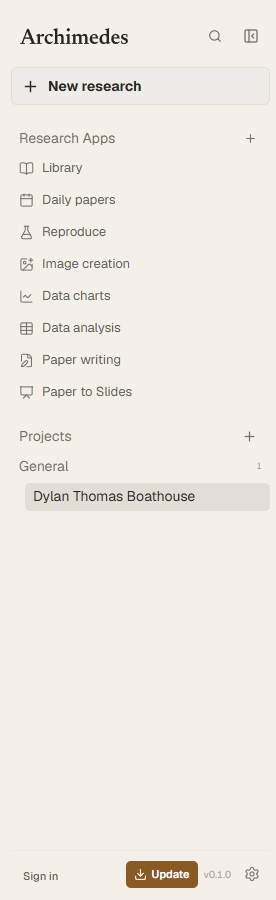
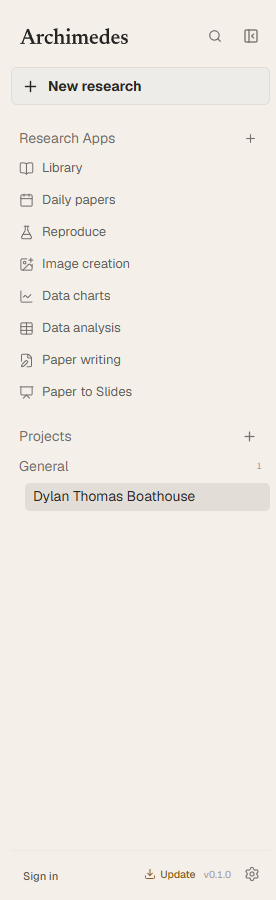
fix(sidebar): make the update action minimal and non-overlapping

Changed region(s): [[0.4348, 0.9333, 0.7246, 0.9956]]

diff --git a/src/styles.css b/src/styles.css
@@ -7167,10 +7167,10 @@ html[data-card-style="outlined"] :is(.settings-group, .library-card, .daily-pape
 .sidebar-footer-settings { display: grid; width: 30px; height: 30px; flex: 0 0 30px; margin-left: auto; place-items: center; padding: 0; color: var(--sb-muted); background: transparent; border: 0; border-radius: 6px; }
 .sidebar-footer-settings:hover { color: var(--night-ink); background: var(--sb-hover); }
 .sidebar-footer-settings:focus-visible { outline: 2px solid var(--focus-ring); outline-offset: 1px; }
-.sidebar-footer-version { flex: 0 0 auto; color: var(--sb-faint); font-size: 10px; font-variant-numeric: tabular-nums; white-space: nowrap; }
-.sidebar-footer-update { display: inline-flex; min-height: 27px; flex: 0 0 auto; align-items: center; gap: 5px; padding: 0 8px; color: var(--accent-ink); background: var(--accent); border: 0; border-radius: 5px; font-size: 11px; font-weight: 600; white-space: nowrap; }
-.sidebar-footer-update:hover { filter: brightness(.96); }
-.sidebar-footer-update svg { width: 13px; height: 13px; }
+.sidebar-footer-version { min-width: 0; flex: 0 1 auto; overflow: hidden; color: var(--sb-faint); font-size: 10px; font-variant-numeric: tabular-nums; text-overflow: ellipsis; white-space: nowrap; }
+.sidebar-footer-update { display: inline-flex; height: 24px; flex: 0 0 auto; align-items: center; gap: 4px; padding: 0 2px; color: var(--accent); background: transparent; border: 0; border-radius: 3px; font-size: 10.5px; font-weight: 500; white-space: nowrap; }
+.sidebar-footer-update:hover { color: var(--accent-strong); background: transparent; text-decoration: underline; text-underline-offset: 2px; }
+.sidebar-footer-update svg { width: 12px; height: 12px; }
 .sidebar-runtime .account-chip-wrap.compact { min-width: 0; flex: 0 0 auto; margin-right: auto; }
 .account-chip.compact { display: flex; width: auto; min-width: 30px; height: 30px; min-height: 30px; align-items: center; justify-content: center; padding: 0 8px; border-color: transparent; }
 .account-chip.compact.guest .account-chip-copy { display: block; }
@@ -7187,7 +7187,7 @@ html[data-card-style="outlined"] :is(.settings-group, .library-card, .daily-pape
   .sidebar-runtime { flex-direction: column; align-items: center; gap: 4px; }
   .account-chip-copy { display: none; }
   .sidebar-footer-version { display: none; }
-  .sidebar-footer-update { width: 30px; height: 30px; min-height: 30px; justify-content: center; padding: 0; }
+  .sidebar-footer-update { width: 24px; height: 30px; min-height: 30px; justify-content: center; padding: 0; }
   .sidebar-footer-update span { display: none; }
   .sidebar-runtime .account-chip-wrap.compact { margin-right: 0; }
   .sidebar-footer-settings { margin-left: 0; }

diff --git a/docs/sidebar-footer.md b/docs/sidebar-footer.md
@@ -4,6 +4,7 @@ The lower utility row reads left to right: account action, optional Update,
 app package version, Settings. Settings is a single icon-only action at the far
 right. Signed out, the account action is a single **Sign in** label; signed in,
 it becomes the user's avatar. Both continue to open the existing account menu.
+Update is a minimal text-and-icon action with no filled background and no border.
 
 This app currently has no application updater/detector. The optional Update
 button is hidden unless a future updater publishes
